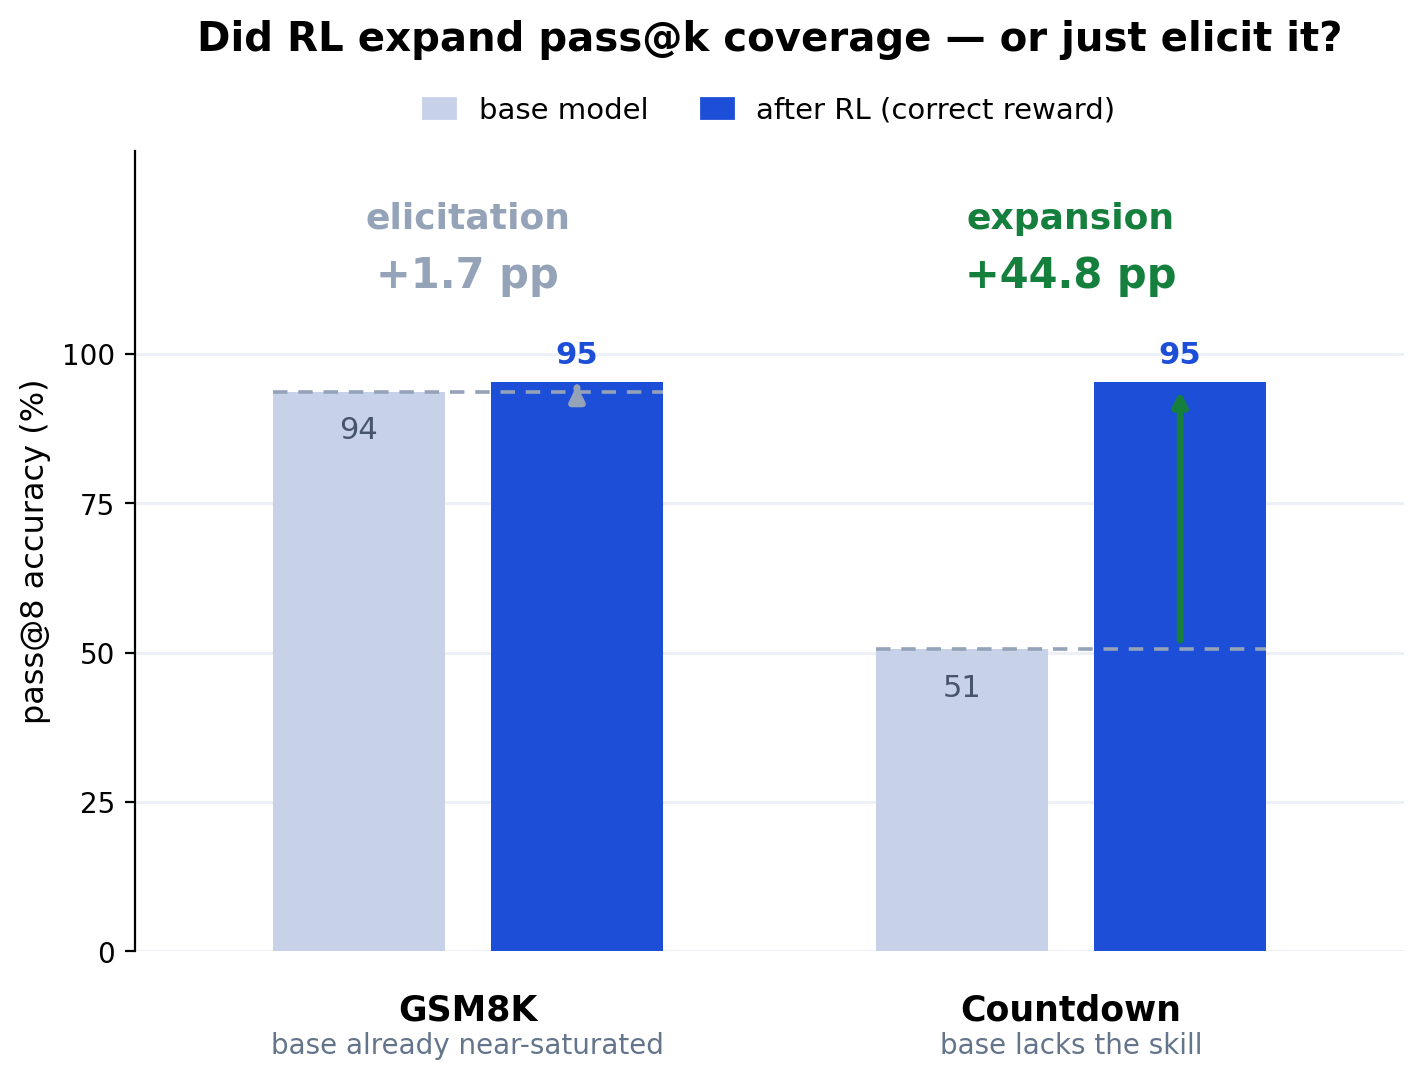
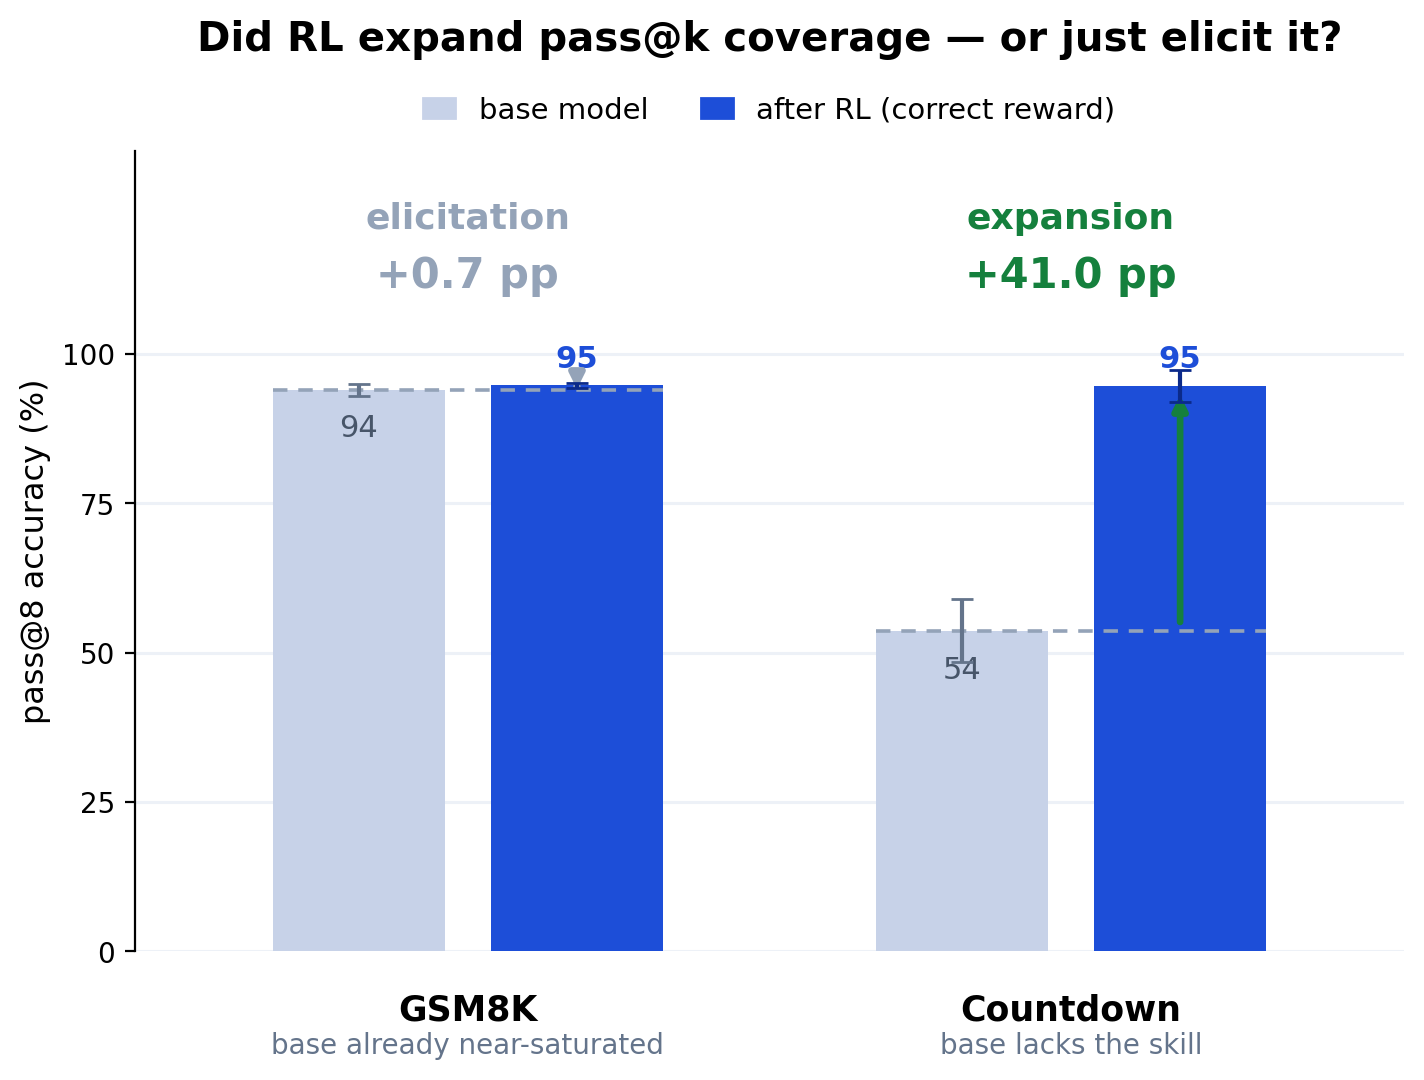
chore(results): multi-seed pass@8 panels close the single-seed hole
Both pass@8 coverage panels are now seed-level, not seed-0 draws — the
interpretive axis (elicitation vs expansion) is on the same footing as the
confirmatory placebo comparison, at a matched protocol (base n=16/correct n=8).

- results/pass8-multiseed.json (6 seeds): GSM8K Δ pass@8 +0.7 pp [0.4, 1.1]
  -> bounded-small (elicitation). Tighter and smaller than the single-seed
  +1.7 pp it replaces; base pass@8 94.0 [92.9, 95.0] anchor (bootstrap CI).
- results/countdown/pass8-multiseed.json (3 seeds): Δ pass@8 +41.0 pp
  [38.3, 43.7] -> expansion. ~60x the GSM8K movement.
- A second single-seed artifact regressed under seeds: the published
  code-reasoning style shift (84->63%) was seed-0-only; the 6-seed mean is
  83.1% vs base 85.4% (no shift).
- Figures carry pass@8 CIs now (base bootstrap, correct seed-level t);
  fig-placebo-comparison regenerated byte-identical.
- FINDINGS x2 + README updated; every number verified against the JSON.

elicitation.json retained as the historical seed-0 panel.

diff --git a/results/make_figures.py b/results/make_figures.py
@@ -1,9 +1,9 @@
 """Render the two headline figures from the committed result JSON.
 
 Reads `seed-placebo-comparison.json` (the seed-aggregated placebo comparison) and
-`elicitation.json` (the pass@k panel) and writes the headline PNGs next to them. matplotlib
-is intentionally NOT a project dependency, so run this with an
-ephemeral install:
+`pass8-multiseed.json` (the multi-seed pass@k coverage panel, with CIs) and writes the
+headline PNGs next to them. matplotlib is intentionally NOT a project dependency, so run
+this with an ephemeral install:
 
     uv run --with matplotlib python results/make_figures.py
 
@@ -83,14 +83,23 @@ def _placebo_comparison_figure(placebo: dict) -> None:
     plt.close(fig)
 
 
-def _passk_curve_figure(elicit: dict) -> None:
+def _passk_curve_figure(panel: dict) -> None:
     """Grouped bars showing RL lifts pass@1 but barely moves pass@8 coverage — the
-    visual signature of elicitation rather than capability expansion.
+    visual signature of elicitation rather than capability expansion. pass@8 carries its
+    uncertainty: the base anchor's problem-bootstrap CI and correct's seed-level t CI.
     """
-    base, correct = elicit["base"], elicit["correct"]
     groups = ["pass@1", "pass@8"]
-    base_v = [base["pass@1"] * PP, base["pass@8"] * PP]
-    rl_v = [correct["pass@1"] * PP, correct["pass@8"] * PP]
+    base_v = [panel["base_pass1"] * PP, panel["base_passk"] * PP]
+    rl_v = [panel["mean_correct_pass1"] * PP, panel["mean_correct_passk"] * PP]
+    # Asymmetric error bars on pass@8 only — the coverage metric the verdict rests on.
+    base_err = [
+        [(panel["base_passk"] - panel["base_passk_ci_low"]) * PP],
+        [(panel["base_passk_ci_high"] - panel["base_passk"]) * PP],
+    ]
+    rl_err = [
+        [(panel["mean_correct_passk"] - panel["correct_passk_ci_low"]) * PP],
+        [(panel["correct_passk_ci_high"] - panel["mean_correct_passk"]) * PP],
+    ]
 
     fig, ax = plt.subplots(figsize=(7.2, 4.6))
     _clean(ax, grid_axis="y")
@@ -100,9 +109,15 @@ def _passk_curve_figure(elicit: dict) -> None:
         bx, rx = cx - width / 2 - 0.03, cx + width / 2 + 0.03
         ax.bar(bx, base_v[i], width, color=BASE_C, zorder=3)
         ax.bar(rx, rl_v[i], width, color=RL_C, zorder=3)
+        label_b, label_r = base_v[i], rl_v[i]
+        if i == 1:  # pass@8: draw the CIs and lift the value labels above the whiskers
+            ax.errorbar(bx, base_v[i], yerr=base_err, fmt="none", ecolor=MUTED, capsize=4, zorder=5)
+            ax.errorbar(rx, rl_v[i], yerr=rl_err, fmt="none", ecolor="#0b2a8a", capsize=4, zorder=5)
+            label_b += base_err[1][0]
+            label_r += rl_err[1][0]
         ax.text(
             bx,
-            base_v[i] + 1.5,
+            label_b + 1.5,
             f"{base_v[i]:.1f}",
             ha="center",
             va="bottom",
@@ -111,7 +126,7 @@ def _passk_curve_figure(elicit: dict) -> None:
         )
         ax.text(
             rx,
-            rl_v[i] + 1.5,
+            label_r + 1.5,
             f"{rl_v[i]:.1f}",
             ha="center",
             va="bottom",
@@ -167,8 +182,9 @@ def _contrast_figure(gsm8k: dict, countdown: dict) -> None:
     base_color, rl_color, expand, flat = "#c7d2e8", "#1d4ed8", "#15803d", "#94a3b8"
     tasks = ["GSM8K", "Countdown"]
     subtitles = ["base already near-saturated", "base lacks the skill"]
-    base_p8 = [gsm8k["base"]["pass@8"] * PP, countdown["base"]["pass@8"] * PP]
-    rl_p8 = [gsm8k["correct"]["pass@8"] * PP, countdown["correct"]["pass@8"] * PP]
+    panels = [gsm8k, countdown]
+    base_p8 = [gsm8k["base_passk"] * PP, countdown["base_passk"] * PP]
+    rl_p8 = [gsm8k["mean_correct_passk"] * PP, countdown["mean_correct_passk"] * PP]
 
     fig, ax = plt.subplots(figsize=(8.2, 5.2))
     ax.set_axisbelow(True)
@@ -180,6 +196,18 @@ def _contrast_figure(gsm8k: dict, countdown: dict) -> None:
         lift = expand if delta >= 10 else flat
         ax.bar(bx, base_p8[i], width, color=base_color, zorder=3)
         ax.bar(rx, rl_p8[i], width, color=rl_color, zorder=3)
+        # pass@8 uncertainty: base anchor's problem-bootstrap CI, correct's seed-level t CI.
+        panel = panels[i]
+        base_err = [
+            [(panel["base_passk"] - panel["base_passk_ci_low"]) * PP],
+            [(panel["base_passk_ci_high"] - panel["base_passk"]) * PP],
+        ]
+        rl_err = [
+            [(panel["mean_correct_passk"] - panel["correct_passk_ci_low"]) * PP],
+            [(panel["correct_passk_ci_high"] - panel["mean_correct_passk"]) * PP],
+        ]
+        ax.errorbar(bx, base_p8[i], yerr=base_err, fmt="none", ecolor=MUTED, capsize=4, zorder=6)
+        ax.errorbar(rx, rl_p8[i], yerr=rl_err, fmt="none", ecolor="#0b2a8a", capsize=4, zorder=6)
         ax.text(
             bx,
             base_p8[i] - 4,
@@ -256,11 +284,13 @@ def _contrast_figure(gsm8k: dict, countdown: dict) -> None:
 
 def main() -> None:
     placebo = json.loads((HERE / "seed-placebo-comparison.json").read_text(encoding="utf-8"))
-    elicit = json.loads((HERE / "elicitation.json").read_text(encoding="utf-8"))
+    panel = json.loads((HERE / "pass8-multiseed.json").read_text(encoding="utf-8"))
+    countdown = json.loads(
+        (HERE / "countdown" / "pass8-multiseed.json").read_text(encoding="utf-8")
+    )
     _placebo_comparison_figure(placebo)
-    _passk_curve_figure(elicit)
-    countdown = json.loads((HERE / "countdown" / "elicitation.json").read_text(encoding="utf-8"))
-    _contrast_figure(elicit, countdown)
+    _passk_curve_figure(panel)
+    _contrast_figure(panel, countdown)
     print("wrote fig-placebo-comparison.png, fig-passk-curve.png, fig-passk-contrast.png")
 
 

diff --git a/results/FINDINGS.md b/results/FINDINGS.md
@@ -1,9 +1,11 @@
 # grpo-gain-decomposition findings (Qwen2.5-Math-1.5B, GRPO on GSM8K)
 
 Placebo comparison: **6 seeds per arm**; GSM8K-test (n=1319); pass@1 greedy, 1024-token budget,
-lenient extraction. Controls and the elicitation panel are **seed 0** (descriptive).
-Commit-pinned artifacts: `seed-placebo-comparison.json` (6-seed), `elicitation.json`, `summary.json`
-(seed-0 full decomposition), `decomposition.md`.
+lenient extraction. The pass@k coverage panel is now **6 seeds** too (base n=16 / correct n=8,
+temp 0.7); only the §3 controls remain seed 0 (descriptive). Commit-pinned artifacts:
+`seed-placebo-comparison.json` (6-seed), `pass8-multiseed.json` (6-seed pass@k),
+`elicitation.json` (historical seed-0 panel), `summary.json` (seed-0 full decomposition),
+`decomposition.md`.
 
 ## Headline (controlled)
 
@@ -11,9 +13,9 @@ A **small (~+4pp), correctness-driven, and statistically significant** GSM8K gai
 is nonetheless **mostly elicitation** of latent base capability, not new reasoning, not
 contamination, not formatting. Two corrections to the naive read: the flashy single-seed
 number (+6.1pp, McNemar p=3e-9) **overstated the magnitude** (six seeds settle it at
-**+3.9pp [2.3, 5.6]**), and the pass@k panel shows the gain is the model getting more
-**reliable at problems it could already solve**. GSM8K is near-saturated for this base
-(base pass@8 = 94%).
+**+3.9pp [2.3, 5.6]**), and the **6-seed** pass@k panel shows pass@8 coverage barely moves
+(Δ **+0.7pp [0.4, 1.1]**): the gain is the model getting more **reliable at problems it could
+already solve**, not new coverage. GSM8K is near-saturated for this base (base pass@8 = 94%).
 
 ![Placebo comparison over 6 seeds: +3.9 pp [2.3, 5.6]](fig-placebo-comparison.png)
 
@@ -44,22 +46,32 @@ correct − random, 6 seeds → mean **+3.9 pp**, 95% CI **[2.3, 5.6]** (seed-le
 - Seed-averaged: base 76.4%, **random 75.8%**, **correct 79.8%** (+3.4 over base,
   +3.9 over placebo).
 
-## 2. Elicitation: new capability or surfaced capability? (seed 0, n=8, temp 0.7)
+## 2. Elicitation: new capability or surfaced capability? (6 seeds, base n=16 / correct n=8, temp 0.7)
+
+correct pass@8 over **6 seeds** vs the seed-independent base pass@8 anchor
+(`pass8-multiseed.json`). pass@8 coverage **barely moves**: Δ **+0.7 pp, 95% CI [0.4, 1.1]**
+(seed-level t, df=5). This was the study's one load-bearing single-seed claim; it is now
+multi-seeded, on the same footing as the placebo comparison — and it *tightened*: the
+single-seed panel's +1.7 pp was the seed-0 high.
 
 | arm | pass@1 (sampled) | pass@8 | code-reasoning freq |
 | --- | --- | --- | --- |
-| base | 70.7% | **93.6%** | 84.1% |
-| correct | 77.2% | 95.3% | 62.6% |
+| base | 69.8% | **94.0%** [92.9, 95.0] | 85.4% |
+| correct (6-seed mean) | 76.2% | 94.7% [94.3, 95.1] | 83.1% |
 
-- **base pass@8 (93.6%) ≫ correct pass@1 (77.2%)**: given 8 tries, the base already solves
-  almost everything the RL model produces greedily. The gain lives **inside the base's
-  pass@k coverage**: RL improved pass@1 reliability (moved ~6.5 pp of the 23 pp
-  pass@1→pass@8 gap into the first sample), it did not expand capability.
-- **correct pass@8 (95.3%) ≈ base pass@8 (93.6%)**: pass@8 coverage barely moved (+1.7 pp).
-- **Style shift:** code-reasoning frequency dropped 84% → 63%: RL moved the model from
-  program-of-thought toward natural-language CoT. A behavioral change, not just accuracy.
-- *Caveat:* this panel is one seed. The gap it rests on is large enough to be robust to
-  seed noise, but a multi-seed pass@k pass would measure it as directly as the placebo comparison.
+- **base pass@8 (94.0%) ≫ correct pass@1 (76.2%)**: given 8 tries, the base already solves
+  almost everything the RL model produces in one sampled try. The gain lives **inside the base's
+  pass@k coverage** — RL improved pass@1 reliability, it did not expand capability.
+- **correct pass@8 ≈ base pass@8**: Δ pass@8 = **+0.7 pp [0.4, 1.1]**. A real but negligible
+  lift — the interval excludes zero yet sits ~60× below Countdown's +41.0 pp expansion. This is
+  the *bounded-small* reading: a near-null confirmed with a tight CI, not a null-by-construction.
+  All six correct seeds cluster at 94.2–95.2% (near-ceiling, so between-seed spread is tiny and
+  n=8 already resolves the panel — no escalation needed).
+- **The style shift does not replicate.** The published seed-0 panel's code-reasoning drop
+  (84% → 63%) was a seed-0 idiosyncrasy: across six seeds correct code-reasoning is **83.1%**
+  (per-seed 63–91%) vs base 85.4% — essentially no shift, with only seed 0 at 63%. A second
+  single-seed artifact (alongside the +6.1 pp placebo high) that regresses under seeds.
+- `elicitation.json` is retained as the historical seed-0 panel.
 
 ## 3. Controls (seed 0, descriptive: marginal CIs, not family-wise corrected)
 

diff --git a/results/countdown/FINDINGS.md b/results/countdown/FINDINGS.md
@@ -2,9 +2,9 @@
 
 The **positive control**. Placebo comparison: **3 seeds per arm**; held-out `countdown-test`
 (n=192, disjoint from train, procedurally generated so uncontaminated); pass@1 greedy. The
-pass@k panel is seed 0 (n=8, temp 0.7). Commit-pinned artifacts:
-`seed-placebo-comparison.json`,
-`elicitation.json`, `summary.json`, `decomposition.md`.
+pass@k coverage panel is now **3 seeds** too (base n=16 / correct n=8, temp 0.7). Commit-pinned
+artifacts: `seed-placebo-comparison.json`, `pass8-multiseed.json` (3-seed pass@k),
+`elicitation.json` (historical seed-0 panel), `summary.json`, `decomposition.md`.
 
 ## Headline (controlled)
 
@@ -33,26 +33,33 @@ positive.
 - Three seeds, not six: the effect is so large that the seed-level interval clears zero
   decisively (the GSM8K comparison needed six only because +3.9pp is small).
 
-## 2. The pass@k curve: expansion, not elicitation (seed 0, n=8, temp 0.7)
+## 2. The pass@k curve: expansion, not elicitation (3 seeds, base n=16 / correct n=8, temp 0.7)
+
+correct pass@8 over **3 seeds** vs the seed-independent base pass@8 anchor (`pass8-multiseed.json`):
 
 | arm | pass@1 | pass@8 |
 | --- | --- | --- |
-| base | 9.0% | **50.5%** |
-| correct | 59.6% | **95.3%** |
+| base | 11.0% | **53.6%** [48.4, 58.9] |
+| correct (3-seed mean) | 58.0% | **94.6%** [91.9, 97.3] |
 
-- **base pass@8 (50.5%) ≪ correct pass@8 (95.3%)**: pass@8 coverage **moved +44.8 pp**. The
-  trained model solves problems at pass@8 that the base fails even with 8 attempts: *new
-  capability*, by definition outside the base's pass@k envelope.
-- Contrast GSM8K, where base pass@8 (93.6%) ≈ correct pass@8 (95.3%): pass@8 coverage barely
-  moved (+1.7pp), so the gain was elicitation. **Same decomposition, opposite verdicts.**
+- **base pass@8 (53.6%) ≪ correct pass@8 (94.6%)**: pass@8 coverage **moved Δ +41.0 pp, 95% CI
+  [38.3, 43.7]** (seed-level t, df=2). The trained model solves at pass@8 problems the base fails
+  even with 8 attempts: *new capability*, by definition outside the base's pass@k envelope.
+- Contrast GSM8K, where Δ pass@8 = **+0.7 pp [0.4, 1.1]** (also multi-seed): coverage barely
+  moves, so the gain is elicitation. **Same decomposition, same protocol, opposite verdicts** —
+  the Countdown expansion is ~60× the GSM8K movement, and both intervals are now seed-level.
 
 ## 3. Two-sided validation (the point of the study)
 
 | | GSM8K (Qwen2.5-Math-1.5B) | Countdown (general Qwen2.5-1.5B) |
 | --- | --- | --- |
-| placebo comparison | +3.9 pp [2.3, 5.6] | **+46.5 pp [21.4, 71.6]** |
-| pass@8 coverage (base → correct) | 93.6 → 95.3 (**+1.7**) | 50.5 → 95.3 (**+44.8**) |
+| placebo comparison (pass@1) | +3.9 pp [2.3, 5.6] (6 seeds) | **+46.5 pp [21.4, 71.6]** (3 seeds) |
+| Δ pass@8 coverage | **+0.7 pp [0.4, 1.1]** (6 seeds) | **+41.0 pp [38.3, 43.7]** (3 seeds) |
+| base → correct pass@8 | 94.0 → 94.7 | 53.6 → 94.6 |
 | verdict | **elicitation** (saturated base) | **expansion** (base lacked the skill) |
+
+Both pass@8 rows are now seed-level (the panel was seed-0-only before), so the contrast no
+longer rests on a single draw on either side.
 
 The decomposition isn't biased toward "it's all fake": on a task where RL genuinely teaches
 new ability, it reports expansion with higher pass@8 coverage; on a saturated benchmark it reports
@@ -63,14 +70,15 @@ trustworthy rather than a null-by-construction artifact.
 
 On Countdown — a verifiable, uncontaminated search task the base cannot do — GRPO with a
 correctness reward delivers a **large, significant, genuinely-new-capability** gain (+46.5pp
-placebo comparison; pass@8 coverage 50.5 → 95.3). It is the positive control that proves the
-decomposition can detect expansion when it exists. Paired with GSM8K's controlled
-elicitation result, the instrument is validated from both sides.
+placebo comparison; Δ pass@8 +41.0 pp [38.3, 43.7], coverage 53.6 → 94.6). It is the positive
+control that proves the decomposition can detect expansion when it exists. Paired with GSM8K's
+controlled elicitation result, the instrument is validated from both sides — now with both
+pass@8 panels seed-level, not seed-0 draws.
 
 ## Caveats
 
-- **3 seeds**: the placebo comparison clears zero decisively, but the CI is wide (df=2);
-  the point estimate is less precise than GSM8K's 6-seed comparison.
+- **3 seeds**: both the placebo comparison and the pass@8 panel clear their thresholds
+  decisively, but the CIs are df=2; the point estimates are less precise than GSM8K's 6 seeds.
 - **Within-Qwen, single base**: the placebo is a within-model lower bound on
   non-correctness-driven gain, not a cross-family verdict (a Llama arm is the follow-up).
 - **Narrow task**: Countdown certifies that the *instrument* detects expansion; it does not

diff --git a/README.md b/README.md
@@ -28,10 +28,11 @@ that tests whether a result is real or a Qwen artifact is the follow-up.
 **GSM8K study complete: 6 seeds per arm.** The result is committed under
 [`results/`](results/FINDINGS.md): the placebo comparison (correct − random) is **+3.9 pp,
 95% CI [2.3, 5.6]** (seed-level *t*, df=5): a small, correctness-driven, statistically
-significant gain. But it is mostly elicitation, not new reasoning: base pass@8 (93.6%)
-≫ correct pass@1 (77.2%), and pass@8 coverage barely moves (93.6 → 95.3). RL made the
-model more *reliable* at problems the base could already solve. A confident single-seed
-"+6.1 pp, p=3e-9" settled, under seed aggregation and pass@k, into that +3.9 pp effect.
+significant gain. But it is mostly elicitation, not new reasoning: base pass@8 (94.0%)
+≫ correct pass@1 (76.2%), and pass@8 coverage barely moves — **Δ +0.7 pp, 95% CI [0.4, 1.1]**
+over 6 seeds. RL made the model more *reliable* at problems the base could already solve. Two
+confident single-seed numbers settled under aggregation: the placebo "+6.1 pp, p=3e-9" → +3.9 pp
+[2.3, 5.6], and the pass@8 panel's "+1.7 pp" → +0.7 pp [0.4, 1.1].
 
 | The confirmatory test | The elicitation finding |
 | --- | --- |
@@ -47,8 +48,9 @@ pass@8 = 94%), so to prove the decomposition can *detect* genuine expansion, a s
 trains the **general `Qwen2.5-1.5B`** with GRPO on **Countdown** (a TinyZero-style search task
 the base genuinely lacks). The result is committed under
 [`results/countdown/`](results/countdown/FINDINGS.md): a **+46.5 pp** placebo comparison (95% CI
-[21.4, 71.6], 3 seeds) and pass@8 coverage that **moves**: base pass@8 50.5% → correct
-95.3%. Same decomposition, opposite verdict from GSM8K's. **Elicitation there, expansion here:**
+[21.4, 71.6], 3 seeds) and pass@8 coverage that **moves** — **Δ +41.0 pp, 95% CI [38.3, 43.7]**
+(3 seeds): base 53.6% → correct 94.6%. Same decomposition, same protocol, opposite verdict from
+GSM8K's. **Elicitation there, expansion here:**
 
 ![Pass@8 coverage: flat on GSM8K (elicitation), expanded on Countdown (expansion)](results/fig-passk-contrast.png)
 
